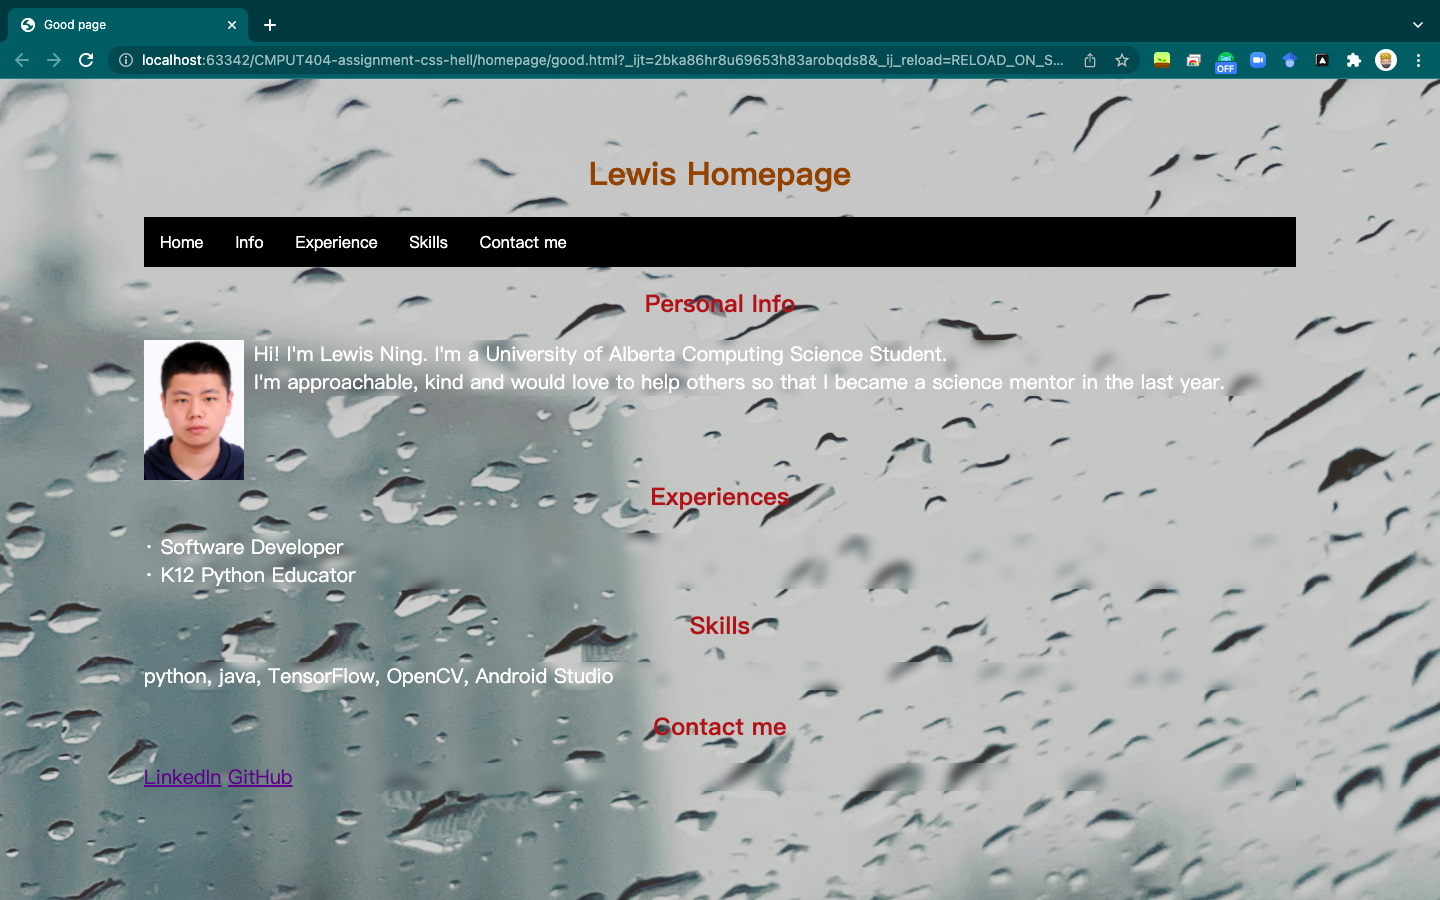
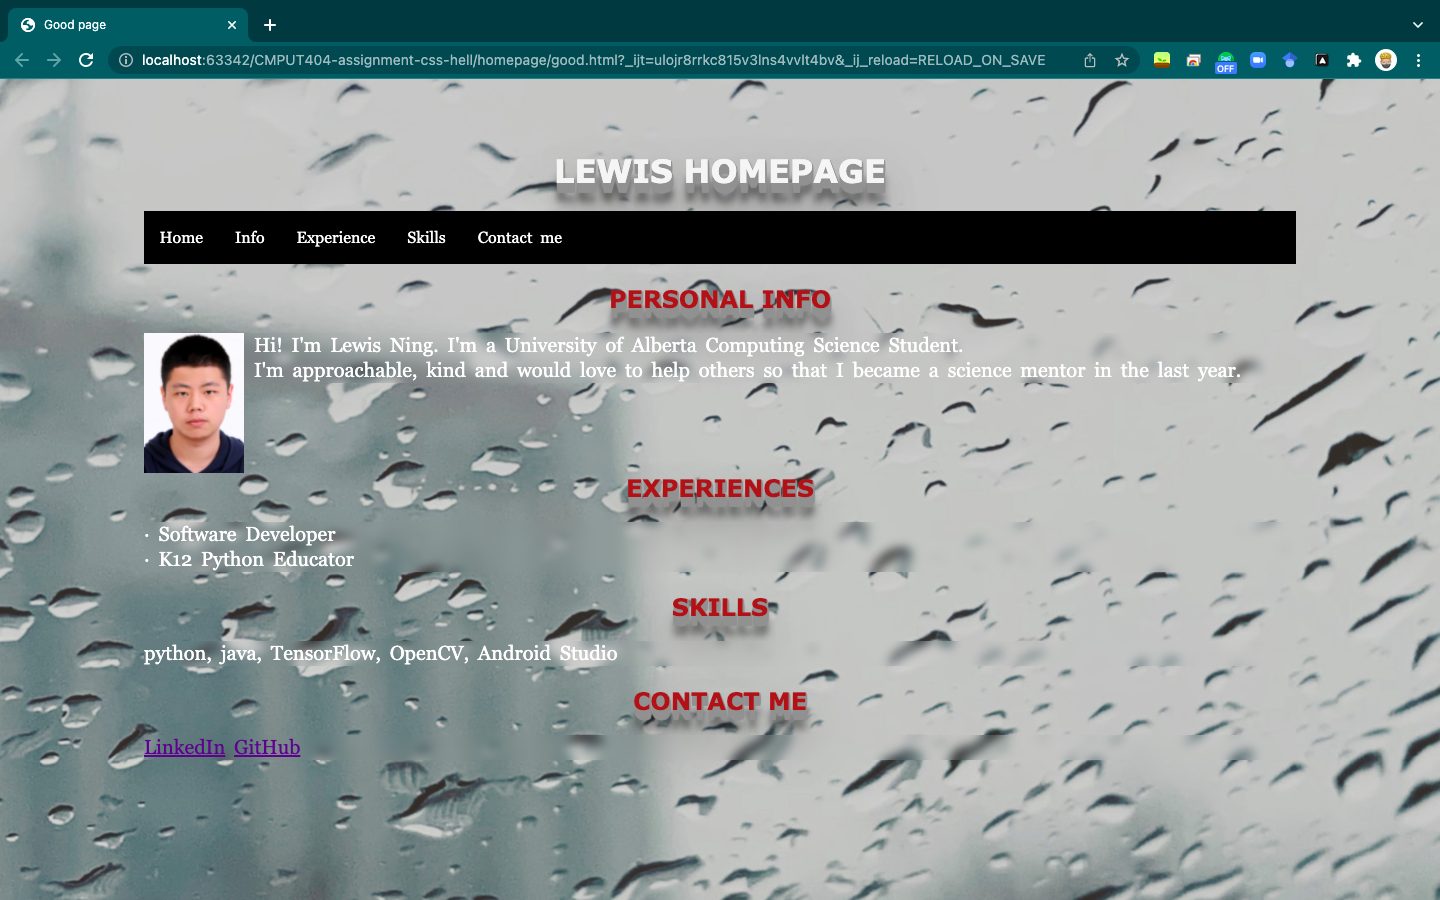
Finished

diff --git a/homepage/good.css b/homepage/good.css
@@ -1,6 +1,24 @@
 h1 {
-  color: saddlebrown;
-  text-align: center;
+    text-align: center;
+    text-transform: uppercase;
+    font-family: verdana, serif;
+    font-size: xx-large;
+    font-weight: 700;
+    color: #f5f5f5;
+    text-shadow: 1px 1px 1px #919191,
+        1px 2px 1px #919191,
+        1px 3px 1px #919191,
+        1px 4px 1px #919191,
+        1px 5px 1px #919191,
+        1px 6px 1px #919191,
+        1px 7px 1px #919191,
+        1px 8px 1px #919191,
+        1px 9px 1px #919191,
+        1px 10px 1px #919191,
+    1px 18px 6px rgba(16,16,16,0.4),
+    1px 22px 10px rgba(16,16,16,0.2),
+    1px 25px 35px rgba(16,16,16,0.2),
+    1px 30px 60px rgba(16,16,16,0.4);
 }
 
 img {
@@ -9,12 +27,33 @@ img {
 }
 
 h2 {
-  text-align: center;
-  color: brown;
-  clear: both;
+    text-align: center;
+    clear: both;
+    text-transform: uppercase;
+    font-family: verdana, serif;
+    font-size: x-large;
+    font-weight: 700;
+    color: brown;
+    text-shadow: 1px 1px 1px #919191,
+        1px 2px 1px #919191,
+        1px 3px 1px #919191,
+        1px 4px 1px #919191,
+        1px 5px 1px #919191,
+        1px 6px 1px #919191,
+        1px 7px 1px #919191,
+        1px 8px 1px #919191,
+        1px 9px 1px #919191,
+        1px 10px 1px #919191,
+    1px 18px 6px rgba(16,16,16,0.4),
+    1px 22px 10px rgba(16,16,16,0.2),
+    1px 25px 35px rgba(16,16,16,0.2),
+    1px 30px 60px rgba(16,16,16,0.4);
 }
 
 div {
+  font-family: Georgia, serif;
+  word-spacing: 0.2em;
+  line-height: 25px;
   color: white;
   font-size: 20px;
   backdrop-filter: blur(5px);

diff --git a/README.md b/README.md
@@ -27,3 +27,4 @@ References
 2. https://www.gutenberg.org/files/84/84-h/84-h.htm
 3. https://www.gutenberg.org/files/1661/1661-h/1661-h.htm
 4. https://www.gutenberg.org/files/1342/1342-h/1342-h.htm
+5. https://freefrontend.com/css-3d-text-effects/
